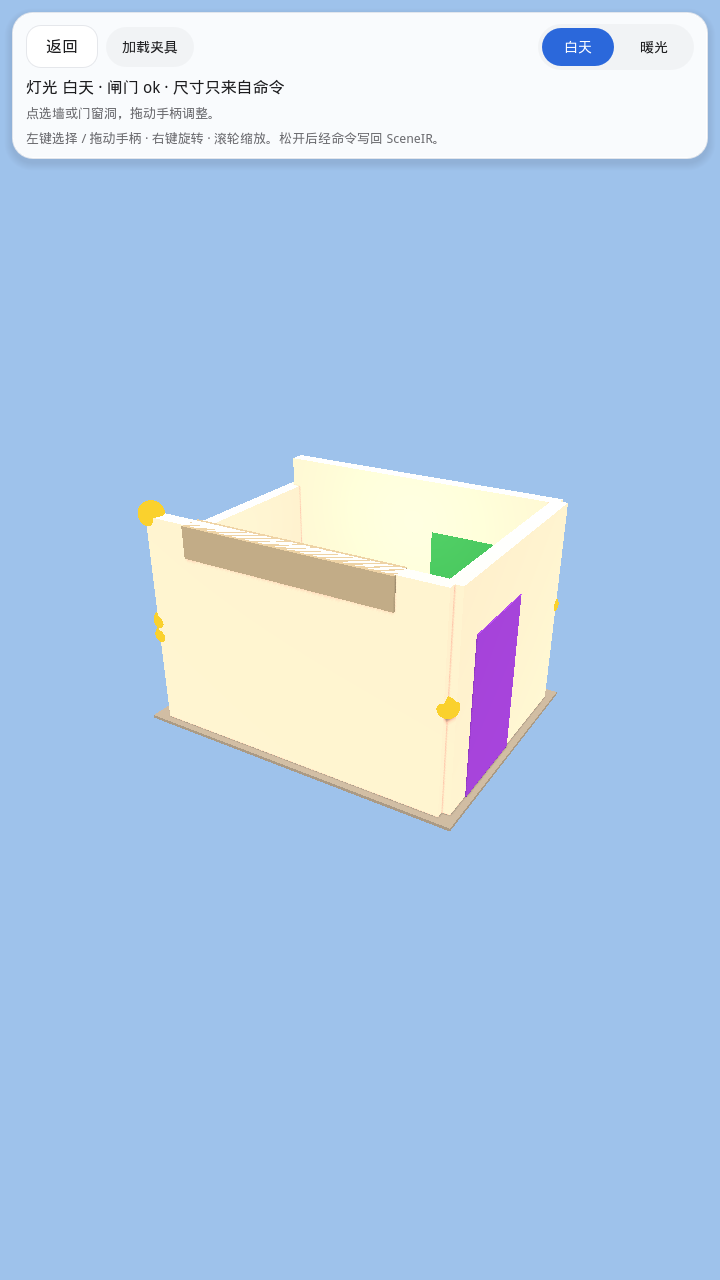
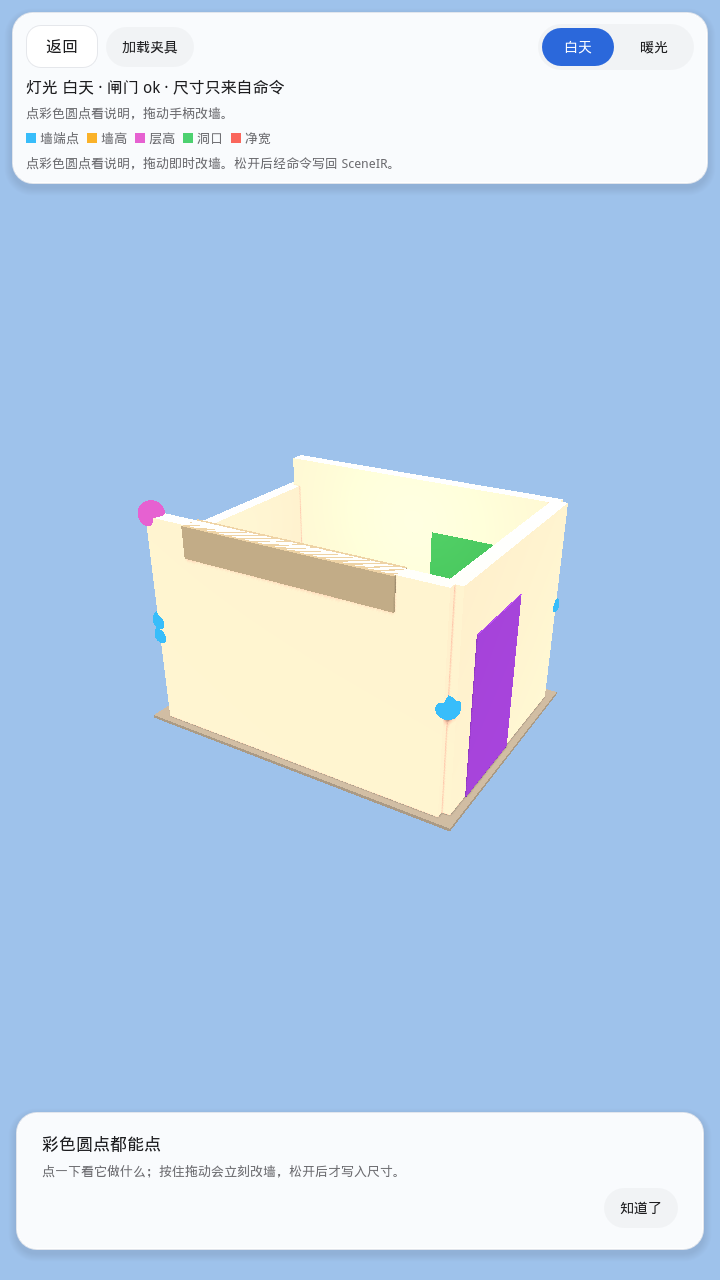
test(godot): live wall preview check and handle-tip screenshots
Coach/tip chips now use the Studio theme so they stay readable on
白天 and 暖光. Godot test asserts BoxMesh preview mutates a local
SceneIR copy without touching C API millimetres.

diff --git a/godot/README.md b/godot/README.md
@@ -158,6 +158,13 @@ Invariant check (no Godot binary required):
 ./godot/scripts/check_3d_edit_invariants.sh
 ```
 
+Live drag preview (needs the desktop `.so` + Godot 4.3):
+
+```bash
+GODOT=/path/to/Godot_v4.3-stable_linux.x86_64 \
+  $GODOT --path godot res://app/test_edit_3d_live.tscn
+```
+
 `.glb` **漫游检查** is still read-only.
 
 ## What Godot is allowed to do
